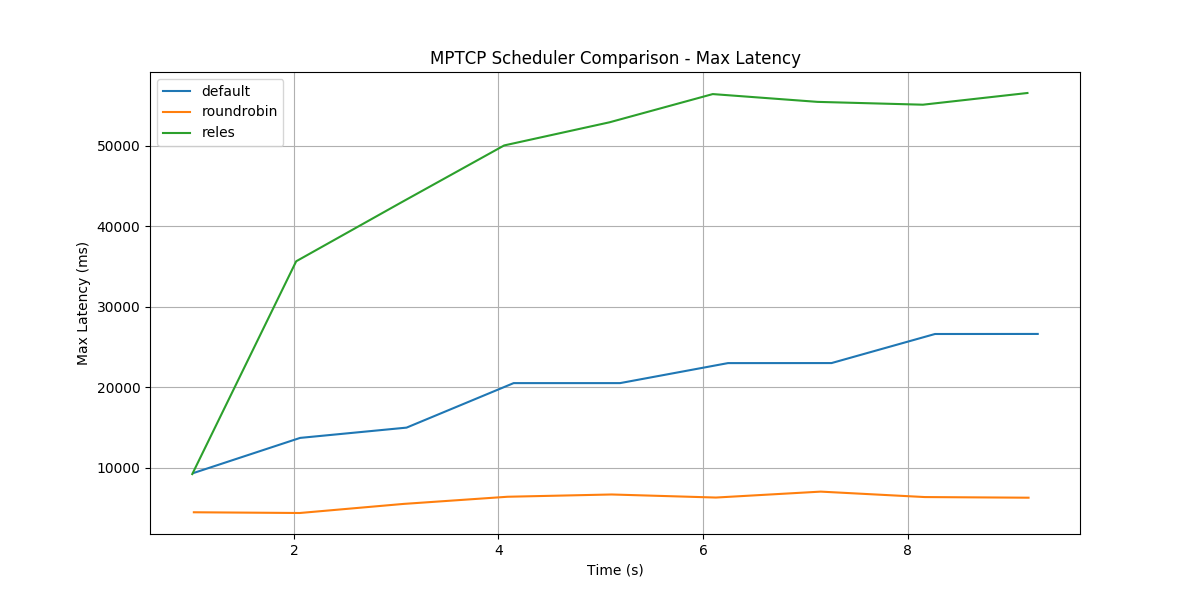
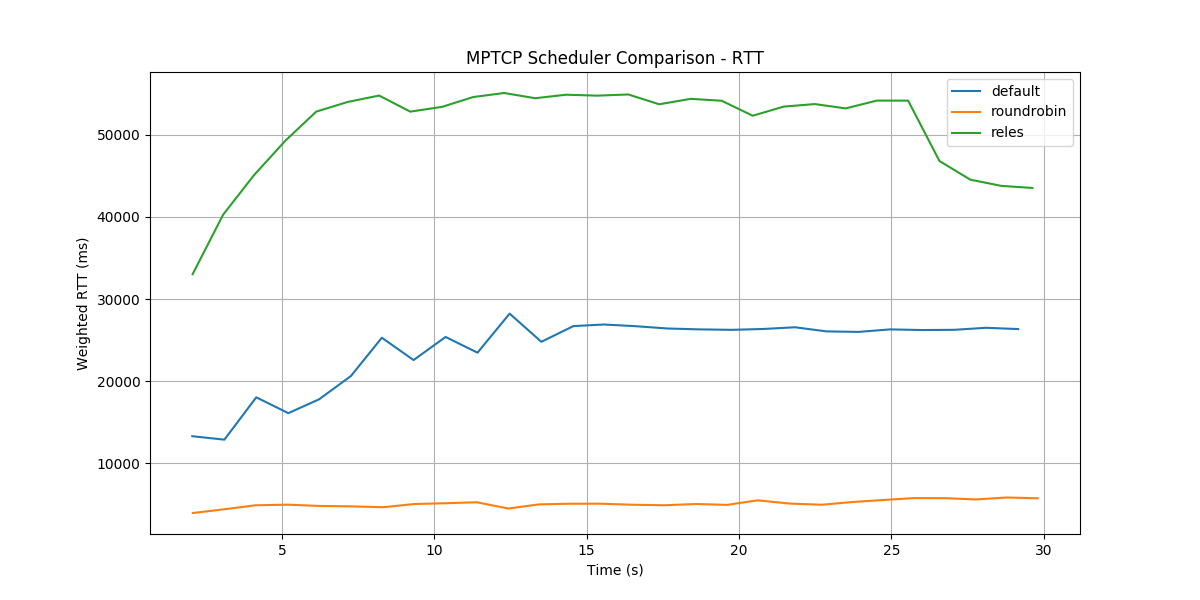
update the script and results

diff --git a/stats_scripts/namespace_sender.py b/stats_scripts/namespace_sender.py
@@ -5,94 +5,70 @@ import time
 import random
 import pandas as pd
 import argparse
+import struct
+import sys
+sys.path.append(".")
 import mpsched
-import signal
 
 BUFFER_SIZE = 1024
-PERF_RECORD_INTERVAL = 1.0
-keep_running = True
-
-# Handle Ctrl+C
-def signal_handler(sig, frame):
-    global keep_running
-    keep_running = False
-
-signal.signal(signal.SIGINT, signal_handler)
-
-def create_mptcp_socket():
-    s = socket.socket(socket.AF_INET, socket.SOCK_STREAM, socket.IPPROTO_TCP)
-    s.setsockopt(socket.IPPROTO_TCP, 42, 1)
-    return s
-
+MSS = 1460
+INTERVAL = 1.0
 
 def main():
     parser = argparse.ArgumentParser()
     parser.add_argument("--ip", required=True)
     parser.add_argument("--port", type=int, required=True)
-    parser.add_argument("--duration", type=int, default=10)
-    parser.add_argument("--csv", required=True)
+    parser.add_argument("--duration", type=int, default=30)
+    parser.add_argument("--output", required=True)
     args = parser.parse_args()
 
-    sock = create_mptcp_socket()
-    sock.connect((args.ip, args.port))
-    fd = sock.fileno()
-    buffer = bytes([random.randint(33, 126) for _ in range(BUFFER_SIZE)])
+    s = socket.socket(socket.AF_INET, socket.SOCK_STREAM, socket.IPPROTO_TCP)
+    s.setsockopt(socket.IPPROTO_TCP, 42, 1)
+    s.connect((args.ip, args.port))
+    fd = s.fileno()
+    buf = bytes([random.randint(33, 126) for _ in range(BUFFER_SIZE)])
 
-    start_time = time.time()
-    last_record = start_time
-    metrics_log = []
+    start = time.time()
+    last = start
+    metrics = []
+    last_subs = None
 
-    while keep_running and (time.time() - start_time < args.duration):
+    while time.time() - start < args.duration:
+        s.send(buf)
         try:
-            sock.send(buffer)
-            try:
-                sock.recv(BUFFER_SIZE)
-            except BlockingIOError:
-                pass
+            s.recv(BUFFER_SIZE)
+        except:
+            pass
 
-            if time.time() - last_record >= PERF_RECORD_INTERVAL:
-                subs = mpsched.get_sub_info(fd)
-
-                throughput_sum = 0
-                rtts = []
-                loss_weighted = []
-
-                for sub in subs:
-                    segs_out = sub[0]
-                    rtt = sub[1]
-                    cwnd = sub[2]
-                    unacked = sub[3]
-                    retrans = sub[4]
-                    # 注意：这里进行throughput算法
-                    throughput = segs_out / (PERF_RECORD_INTERVAL * 125000)  # Mbps
-
-                    throughput_sum += throughput
-                    rtts.append(rtt)
-                    loss = retrans / segs_out if segs_out > 0 else 0
-                    loss_weighted.append((throughput, loss))
-
-                max_latency = max(rtts) if rtts else 0
-                weighted_loss = sum(tp * loss for tp, loss in loss_weighted) / throughput_sum if throughput_sum > 0 else 0
-
-                metrics_log.append({
-                    "time": time.time() - start_time,
-                    "throughput_mbps": throughput_sum,
-                    "latency_max": max_latency,
+        if time.time() - last >= INTERVAL:
+            subs = mpsched.get_sub_info(fd)
+            if last_subs is not None and len(subs) == len(last_subs):
+                throughput = 0
+                weighted_rtt = 0
+                weighted_loss = 0
+                total_seg = 0
+                for i in range(len(subs)):
+                    seg_diff = subs[i][0] - last_subs[i][0]
+                    throughput += seg_diff * MSS * 8 / 1e6
+                    total_seg += subs[i][0]
+                for i in range(len(subs)):
+                    if subs[i][0] > 0:
+                        weighted_rtt += (subs[i][0] / total_seg) * subs[i][1]
+                        loss = subs[i][4] / subs[i][0] if subs[i][0] > 0 else 0
+                        weighted_loss += (subs[i][0] / total_seg) * loss
+                metrics.append({
+                    "time": time.time() - start,
+                    "throughput_mbps": throughput,
+                    "latency_max": weighted_rtt,
                     "segment_loss_rate_weighted": weighted_loss
                 })
+            last_subs = subs
+            last = time.time()
 
-                last_record = time.time()
+        time.sleep(0.05)
 
-            time.sleep(0.05)
-
-        except Exception as e:
-            print(f"Error: {e}")
-            break
-
-    sock.close()
-    df = pd.DataFrame(metrics_log)
-    df.to_csv(args.csv, index=False)
-    print(f"✅ Metrics saved to {args.csv}")
+    s.close()
+    pd.DataFrame(metrics).to_csv(args.output, index=False)
 
 if __name__ == "__main__":
     main()

diff --git a/stats_scripts/client_mptcp_reles.py b/stats_scripts/client_mptcp_reles.py
@@ -1,36 +1,28 @@
 #!/usr/bin/env python3
 
-import os
-import subprocess
 import argparse
-import time
-import matplotlib.pyplot as plt
+import subprocess
+import os
 import pandas as pd
+import matplotlib.pyplot as plt
 
 NAMESPACE = "ns-mptcp"
 
-# 切换 scheduler (root namespace)
 def set_scheduler(scheduler_name):
-    try:
-        subprocess.run(["sudo", "sysctl", f"net.mptcp.mptcp_scheduler={scheduler_name}"], check=True)
-        print(f"✅ Scheduler set to {scheduler_name}")
-    except subprocess.CalledProcessError:
-        print(f"❌ Failed to set scheduler {scheduler_name}")
-        exit(1)
+    subprocess.run(["sudo", "sysctl", f"net.mptcp.mptcp_scheduler={scheduler_name}"], check=True)
+    print(f"✅ Scheduler set to {scheduler_name}")
 
-# 在 namespace 运行 namespace_sender.py
-def run_namespace_sender(server_ip, port, duration, csv_file):
+def run_in_namespace(server_ip, port, duration, output_csv):
     cmd = [
         "sudo", "ip", "netns", "exec", NAMESPACE,
         "python3", "namespace_sender.py",
         "--ip", server_ip,
         "--port", str(port),
         "--duration", str(duration),
-        "--csv", csv_file
+        "--output", output_csv
     ]
     subprocess.run(cmd, check=True)
 
-# 作图
 def plot_metrics(csv_files):
     plt.figure(figsize=(12, 6))
     for csv in csv_files:
@@ -50,8 +42,8 @@ def plot_metrics(csv_files):
         df = pd.read_csv(csv)
         plt.plot(df["time"], df["latency_max"], label=f"{scheduler}")
     plt.xlabel("Time (s)")
-    plt.ylabel("Max Latency (ms)")
-    plt.title("MPTCP Scheduler Comparison - Max Latency")
+    plt.ylabel("Weighted RTT (ms)")
+    plt.title("MPTCP Scheduler Comparison - RTT")
     plt.legend()
     plt.grid()
     plt.savefig("plot_latency.png")
@@ -62,33 +54,29 @@ def plot_metrics(csv_files):
         df = pd.read_csv(csv)
         plt.plot(df["time"], df["segment_loss_rate_weighted"], label=f"{scheduler}")
     plt.xlabel("Time (s)")
-    plt.ylabel("Weighted Segment Loss Rate")
+    plt.ylabel("Weighted Loss Rate")
     plt.title("MPTCP Scheduler Comparison - Loss Rate")
     plt.legend()
     plt.grid()
     plt.savefig("plot_lossrate.png")
 
-    print("✅ Plots saved: plot_throughput.png, plot_latency.png, plot_lossrate.png")
-
-# main
-
 def main():
     parser = argparse.ArgumentParser()
-    parser.add_argument("--ip", required=True, help="Server IP")
-    parser.add_argument("--port", type=int, required=True, help="Server port")
-    parser.add_argument("--schedulers", nargs="+", required=True, help="Schedulers to test")
-    parser.add_argument("--duration", type=int, default=10, help="Test duration per scheduler (s)")
+    parser.add_argument("--ip", required=True)
+    parser.add_argument("--port", type=int, required=True)
+    parser.add_argument("--schedulers", nargs="+", required=True)
+    parser.add_argument("--duration", type=int, default=30)
     args = parser.parse_args()
 
-    csv_files = []
+    csvs = []
     for sched in args.schedulers:
         print(f"\n🧪 Testing scheduler: {sched}")
         set_scheduler(sched)
         csv_file = f"metrics_{sched}.csv"
-        run_namespace_sender(args.ip, args.port, args.duration, csv_file)
-        csv_files.append(csv_file)
+        run_in_namespace(args.ip, args.port, args.duration, csv_file)
+        csvs.append(csv_file)
 
-    plot_metrics(csv_files)
+    plot_metrics(csvs)
 
 if __name__ == "__main__":
     main()
